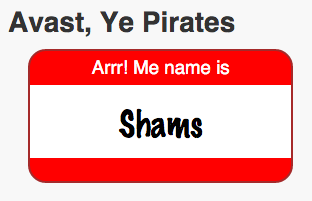
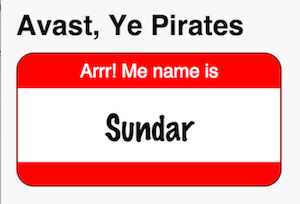
Migrating some of the changes from the Google I/O version of the codelab to this version.

Changed region(s): [[0.0, 0.0, 0.96, 1.0], [0.33, 0.5373, 0.66, 0.7164], [0.27, 0.2985, 0.75, 0.3881]]

diff --git a/src/_codelabs/ng2/2-blankbadge.md b/src/_codelabs/ng2/2-blankbadge.md
@@ -1,6 +1,6 @@
 ---
 layout: codelab
-title: "Step 2: Add a Pirate Badge Component"
+title: "Step 2: Add a Badge Component"
 description: "Extend the basic Angular app with a custom component.."
 snippet_img: images/piratemap.jpg
 
@@ -16,7 +16,7 @@ header:
 ---
 
 In this step, you extend the basic Angular app
-with a pirate badge component, which encapsulates
+with a badge component, which encapsulates
 the behavior and appearance of the pirate badge.
 
 This is the hardest step in this code lab.
@@ -128,7 +128,7 @@ You can change it to the 2-character indentation used in Dart code files:
 
 </div></div>
 
-## <i class="fa fa-anchor"> </i> Create a style sheet for the pirate badge component.
+## <i class="fa fa-anchor"> </i> Create a style sheet for the badge component.
 
 <div class="row"> <div class="col-md-7" markdown="1">
 
@@ -229,7 +229,7 @@ Import Angular's core library.
 <div class="trydart-step-details" markdown="1">
 Create a BadgeComponent class annotated with
 `@Component`. The class contains a name badge
-instance variable&mdash;replace "Shams" with your name.
+instance variable&mdash;replace "Sundar" with your name.
 </div>
 
 <div class="trydart-step-details" markdown="1">
@@ -241,7 +241,7 @@ import 'package:angular2/core.dart';
     [[highlight]]templateUrl: 'badge_component.html',[[/highlight]]
     [[highlight]]styleUrls: const ['badge_component.css'])[[/highlight]]
 [[highlight]]class BadgeComponent {[[/highlight]]
-  [[highlight]]String badgeName = 'Shams';[[/highlight]]
+  [[highlight]]String badgeName = 'Sundar';[[/highlight]]
 [[highlight]]}[[/highlight]]
 {% endprettify %}
 </div>
@@ -519,7 +519,7 @@ Add a reference to the style sheet.
 <div class="trydart-step-details" markdown="1">
 Click {% img 'green-run.png' %} to run the app.
 You should see a name badge with your name,
-or "Shams" if you didn't change the name.
+or "Sundar" if you didn't change the name.
 Assuming your machine has the fonts specified in the CSS file,
 the badge should look similar to the following:
 

diff --git a/src/_codelabs/ng2/5-piratenameservice.md b/src/_codelabs/ng2/5-piratenameservice.md
@@ -21,7 +21,7 @@ In this step, you learn about Angular's support for
 [dependency injection](https://angular.io/docs/dart/latest/guide/dependency-injection.html)
 as you add a service that returns a pirate name.
 
-## <i class="fa fa-anchor"> </i> Create a class for the pirate name service.
+## <i class="fa fa-anchor"> </i> Create a class for the name service.
 
 <div class="row"> <div class="col-md-7" markdown="1">
 

diff --git a/src/_codelabs/ng2/3-inputnamebadge.md b/src/_codelabs/ng2/3-inputnamebadge.md
@@ -102,7 +102,7 @@ class BadgeComponent {
 
 <i class="fa fa-key key-header"> </i> <strong> Key information </strong>
 
-* When an input event occurs on pirate badge component,
+* When an input event occurs on the badge component,
   Angular calls `updateBadge()` with the value entered by the user.
 
 </div> </div>
